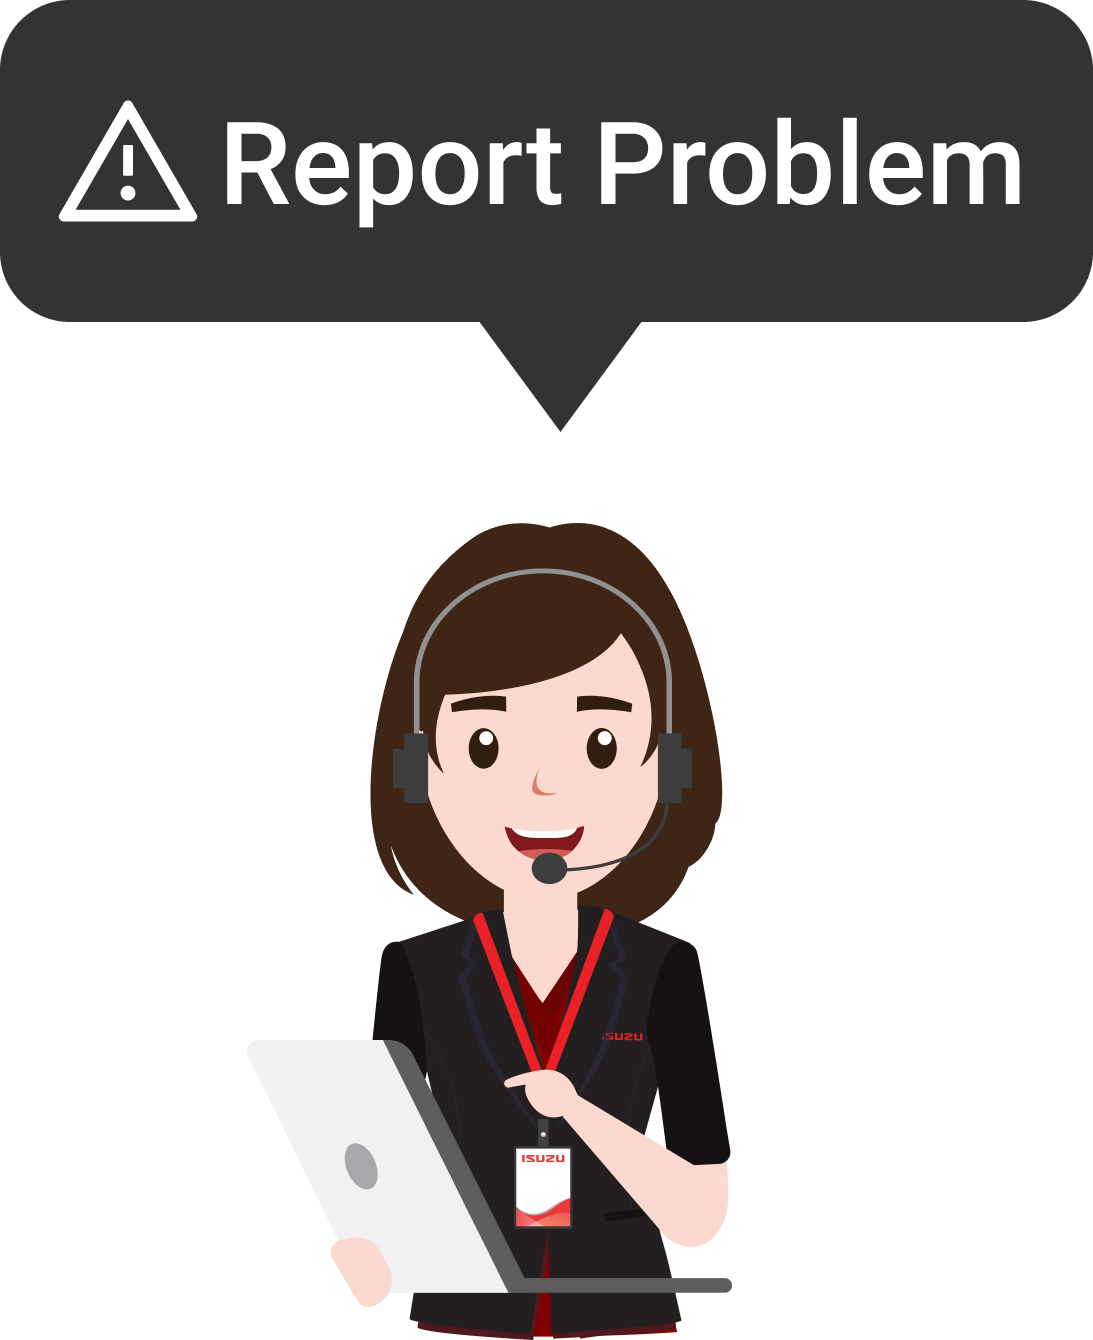
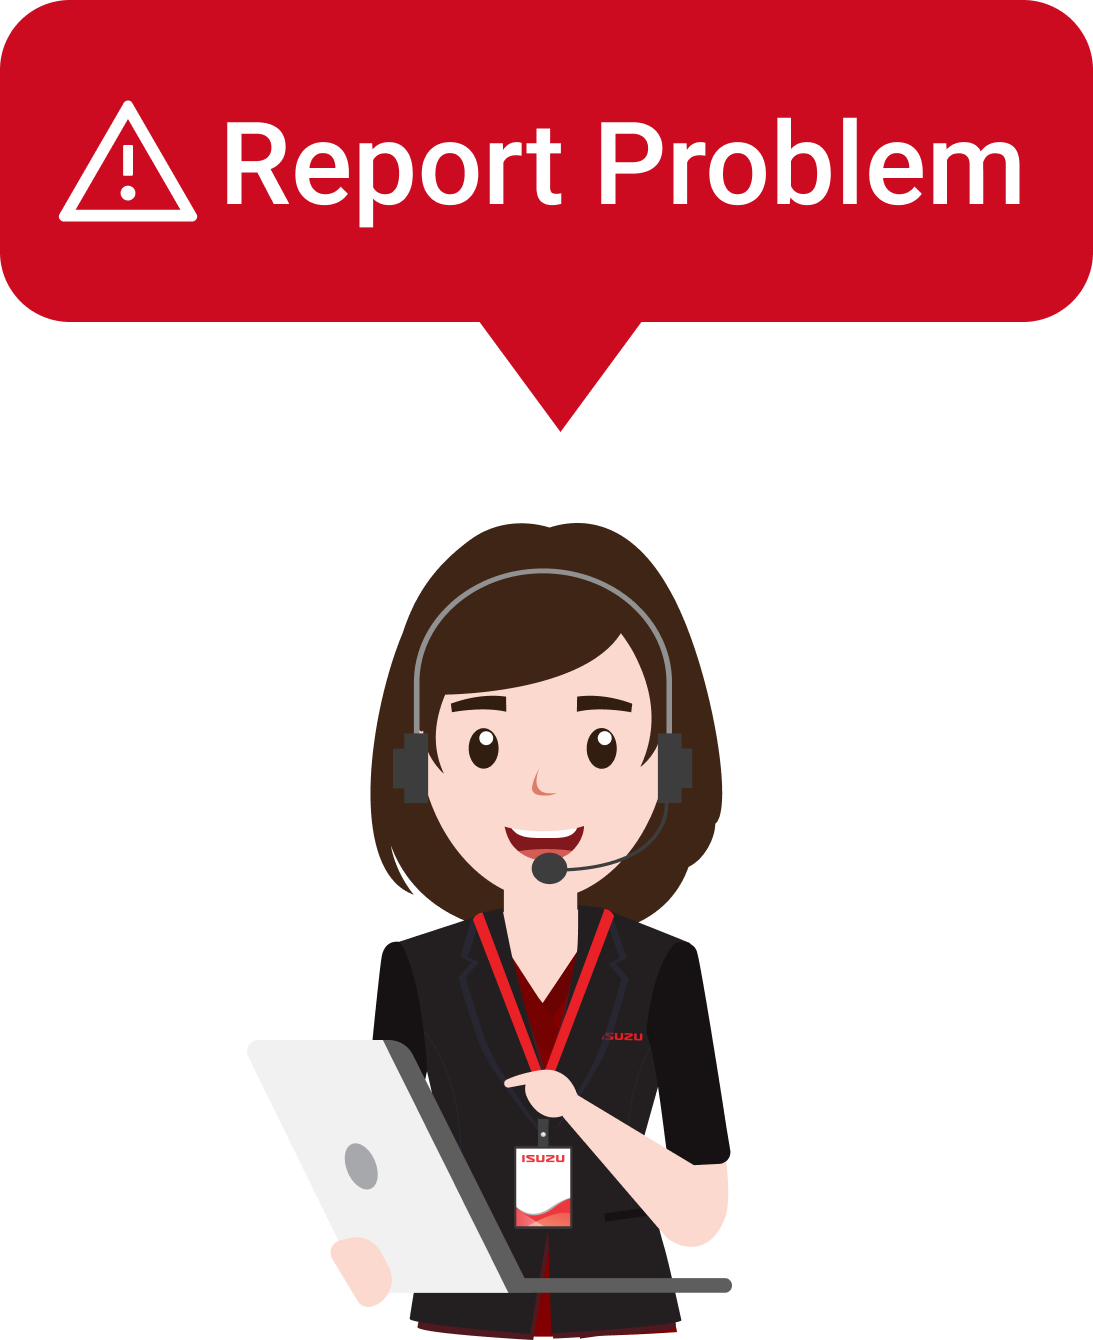
Edit bg-main and color mascot en & th

Changed region(s): [[0.0, 0.0, 1.0, 0.3366]]

diff --git a/protected/views/site/index.php b/protected/views/site/index.php
@@ -152,8 +152,8 @@ if (!empty($msg) || !empty($_GET['msg'])) {
                         <img src="<?php echo Yii::app()->request->baseUrl; ?>/uploads/imgslide/<?= $value->imgslide_id; ?>/thumb/<?= $value->imgslide_picture; ?>" class="slide-main-thor" alt="">
                     </a>
                 <?php } else { ?>
-                    <!-- <img src="<?php echo Yii::app()->theme->baseUrl; ?>/images/main-bg.png" class="slide-main-thor" alt=""> -->
-                    <img src="<?php echo Yii::app()->request->baseUrl; ?>/uploads/imgslide/<?= $value->imgslide_id; ?>/thumb/<?= $value->imgslide_picture; ?>" class="slide-main-thor" alt="">
+                    <img src="<?php echo Yii::app()->theme->baseUrl; ?>/images/main-bg.png" class="slide-main-thor" alt="">
+                    <!-- <img src="<?php echo Yii::app()->request->baseUrl; ?>/uploads/imgslide/<?= $value->imgslide_id; ?>/thumb/<?= $value->imgslide_picture; ?>" class="slide-main-thor" alt=""> -->
                 <?php } ?>
 
             </div>
